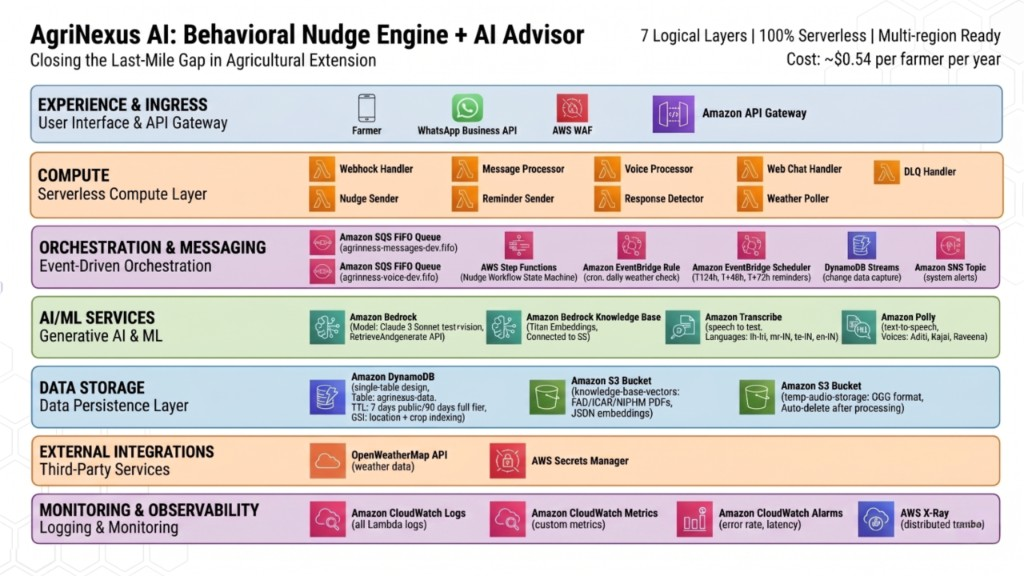
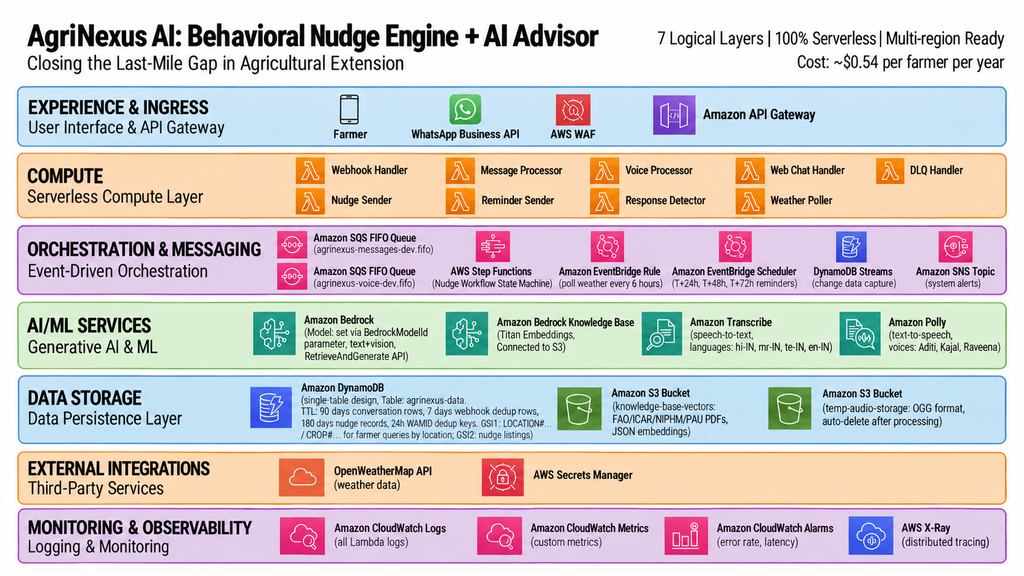
docs: correct Production Evidence framing and regenerate architecture diagrams
README/METRICS: replace "not a prototype" / stale 80% test-to-code-ratio
claims with honest framing (deployed functional prototype, no farmer user
base), flag the Apr 26 metrics as pre-dating the ~8-week Bedrock-model
outage fixed in PR #7, split per-user vs per-IP rate limiting with fix
dates, and surface the actual Active Users figure instead of letting it
sit uncontested next to "not projections" language.

Diagrams: regenerate the 3 architecture PNGs (polished, docs/diagrams,
press-kit) to replace the retired "Claude 3 Sonnet" model label and fix
several pre-existing typos (queue names, FAO source docs, TTL wording,
EventBridge cadence, GSI1/GSI2 indexes) verified against template.yaml
and application code rather than assumed from the old diagram text.

diff --git a/README.md b/README.md
@@ -68,9 +68,9 @@
 
 ## Production Evidence
 
-> *Last verified: April 26, 2026 · 7-day rolling window from CloudWatch*
+> *Metrics below are from April 26, 2026. Between roughly 30 July and 26 Sept 2026, the RAG and vision paths were down (retired Bedrock model ID; fixed in [PR #7](https://github.com/prasadt1/agrinexus-ai/pull/7)). Not yet re-verified against current traffic.*
 
-AgriNexus is a working system with full production observability — not a prototype.
+AgriNexus is a deployed, functional prototype with production-grade observability — publicly reachable and instrumented, built to production standards on AWS and judged functional by AWS reviewers against a requirement that it not be staged. It has no farmer user base and is not in a pilot program.
 
 ### Live Endpoints
 
@@ -87,7 +87,7 @@ AgriNexus is a working system with full production observability — not a proto
 
 | Metric | Value |
 | --- | --- |
-| Test-to-code ratio | **80%** ([metrics](docs/IMPLEMENTATION-QUALITY-METRICS.md) · [how I got there](docs/IMPLEMENTATION-QUALITY-METRICS.md#14-test-coverage-improvement-journey)) |
+| Line coverage (pytest-cov) | **48%** — corrected 26 Sept 2026; the previous "80%" figure measured lines-of-test-code ÷ lines-of-source, not executed-line coverage. See [metrics](docs/IMPLEMENTATION-QUALITY-METRICS.md). |
 | Infrastructure-as-Code resources (SAM) | **34** ([template.yaml](template.yaml)) |
 | Architecture Decision Records (ADRs) | **10** ([docs/adr/](docs/adr/)) |
 | EARS requirements traced to code | **144** ([docs/requirements.md](docs/requirements.md)) |
@@ -170,8 +170,9 @@ Real numbers from the running production stack — not projections.
 | Control | Status | Evidence |
 | --- | --- | --- |
 | Meta HMAC-SHA256 signature verification | ✅ Always on | No bypass possible |
-| Per-user rate limiting | ✅ Active | **25**/hour WhatsApp (`RATE_LIMIT_MESSAGES` in `template.yaml` **Globals**; handler defaults to **10** only if env unset) |
-| PII redaction in logs | ✅ Active | Phone numbers shown as `491***` |
+| Per-user rate limiting (WhatsApp) | ✅ Active | **25**/hour WhatsApp (`RATE_LIMIT_MESSAGES` in `template.yaml` **Globals**; handler defaults to **10** only if env unset) |
+| Per-IP rate limiting (public web chat) | ✅ Active (fixed 26 Sept 2026) | Keys on `requestContext.identity.sourceIp`. Previously trusted the client-supplied `X-Forwarded-For` header, which could be spoofed to bypass the limit — corrected in [PR #7](https://github.com/prasadt1/agrinexus-ai/pull/7). |
+| PII redaction in logs | ✅ Active (fixed 26 Sept 2026) | Phone numbers shown as `491***`. Before that date, 12 log call sites printed raw numbers. |
 | IAM least-privilege | ✅ Enforced | DynamoDB / S3 / Bedrock resource-scoped |
 | Encryption at rest | ✅ Active | DynamoDB default encryption |
 | Encryption in transit | ✅ Active | HTTPS only |

diff --git a/docs/METRICS-AND-MONITORING.md b/docs/METRICS-AND-MONITORING.md
@@ -1,10 +1,12 @@
 # AgriNexus AI — Production Metrics & Monitoring
 
-> **For judges, reviewers, and operators.** This document captures the observability posture of the live AgriNexus AI stack: what's instrumented, what's alarmed, what the system is actually doing in production right now, and what's on the roadmap. Numbers are from the running environment, not projections.
+> **For judges, reviewers, and operators.** This document captures the observability posture of the live AgriNexus AI stack: what's instrumented, what's alarmed, what the system is actually doing in production right now, and what's on the roadmap.
 >
 > **See also:** [README — Production Evidence](../README.md#production-evidence) · [Operations Runbook](operations/RUNBOOK-ALERTS.md) · [FinOps breakdown](finops-public.md)
 
 **Last updated:** April 23, 2026 · **Rolling window:** 7 days · **Environment:** dev (production) · **Stack:** `agrinexus-week2`
+
+> These numbers predate an ~8-week outage (roughly 30 July – 26 Sept 2026) caused by a retired Bedrock model ID; fixed in [PR #7](https://github.com/prasadt1/agrinexus-ai/pull/7). Not yet re-verified against current traffic. They also reflect this system's actual usage level honestly: **Active Users (last 7 days) was 1** at the time of capture — this is a deployed prototype with no farmer user base, not a system under load.
 
 ---
 
